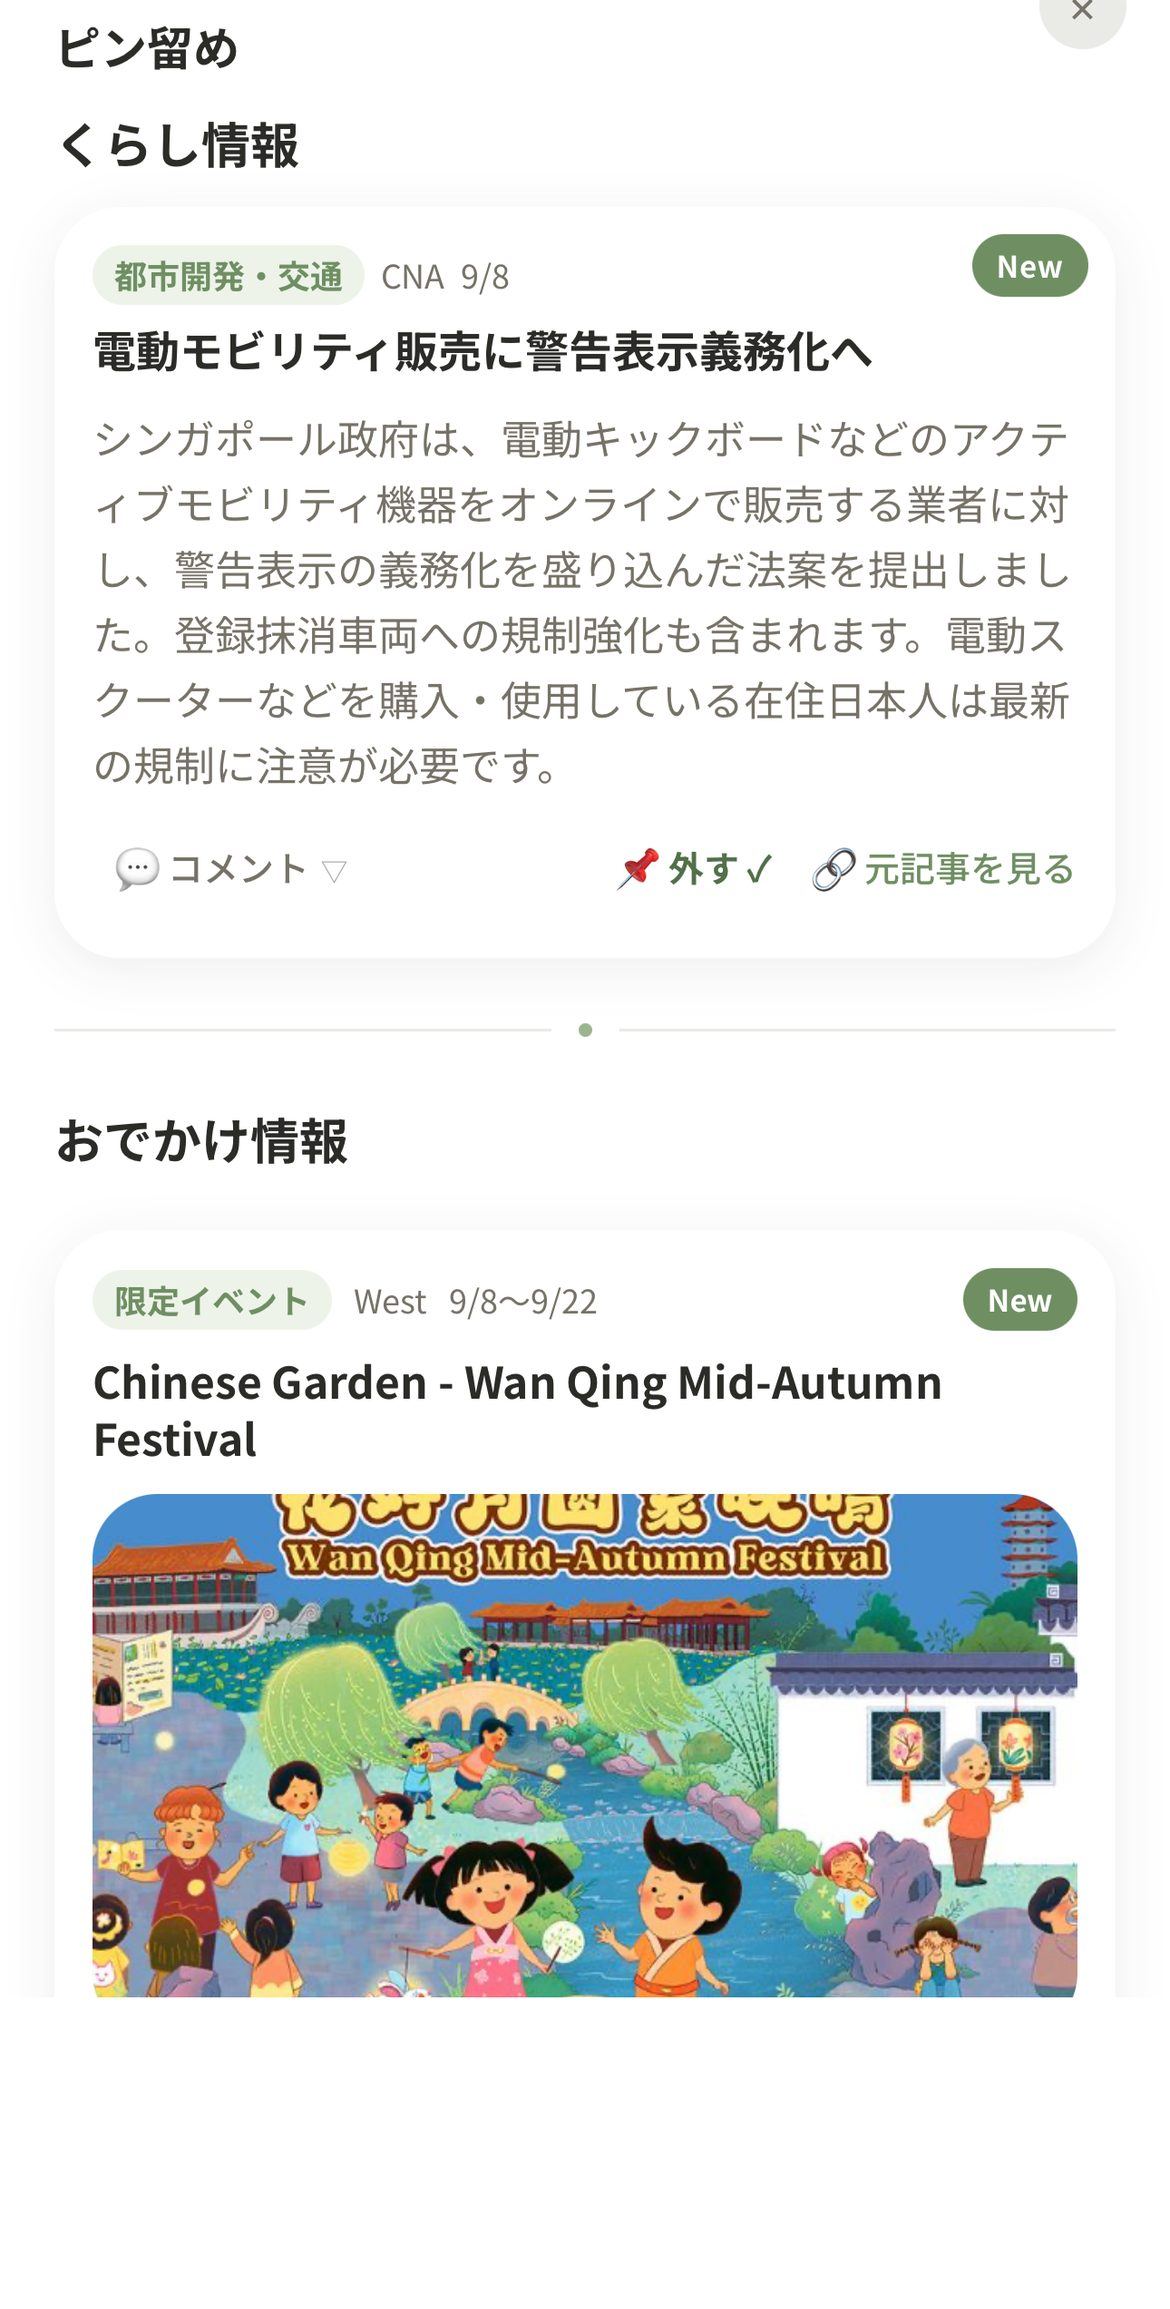
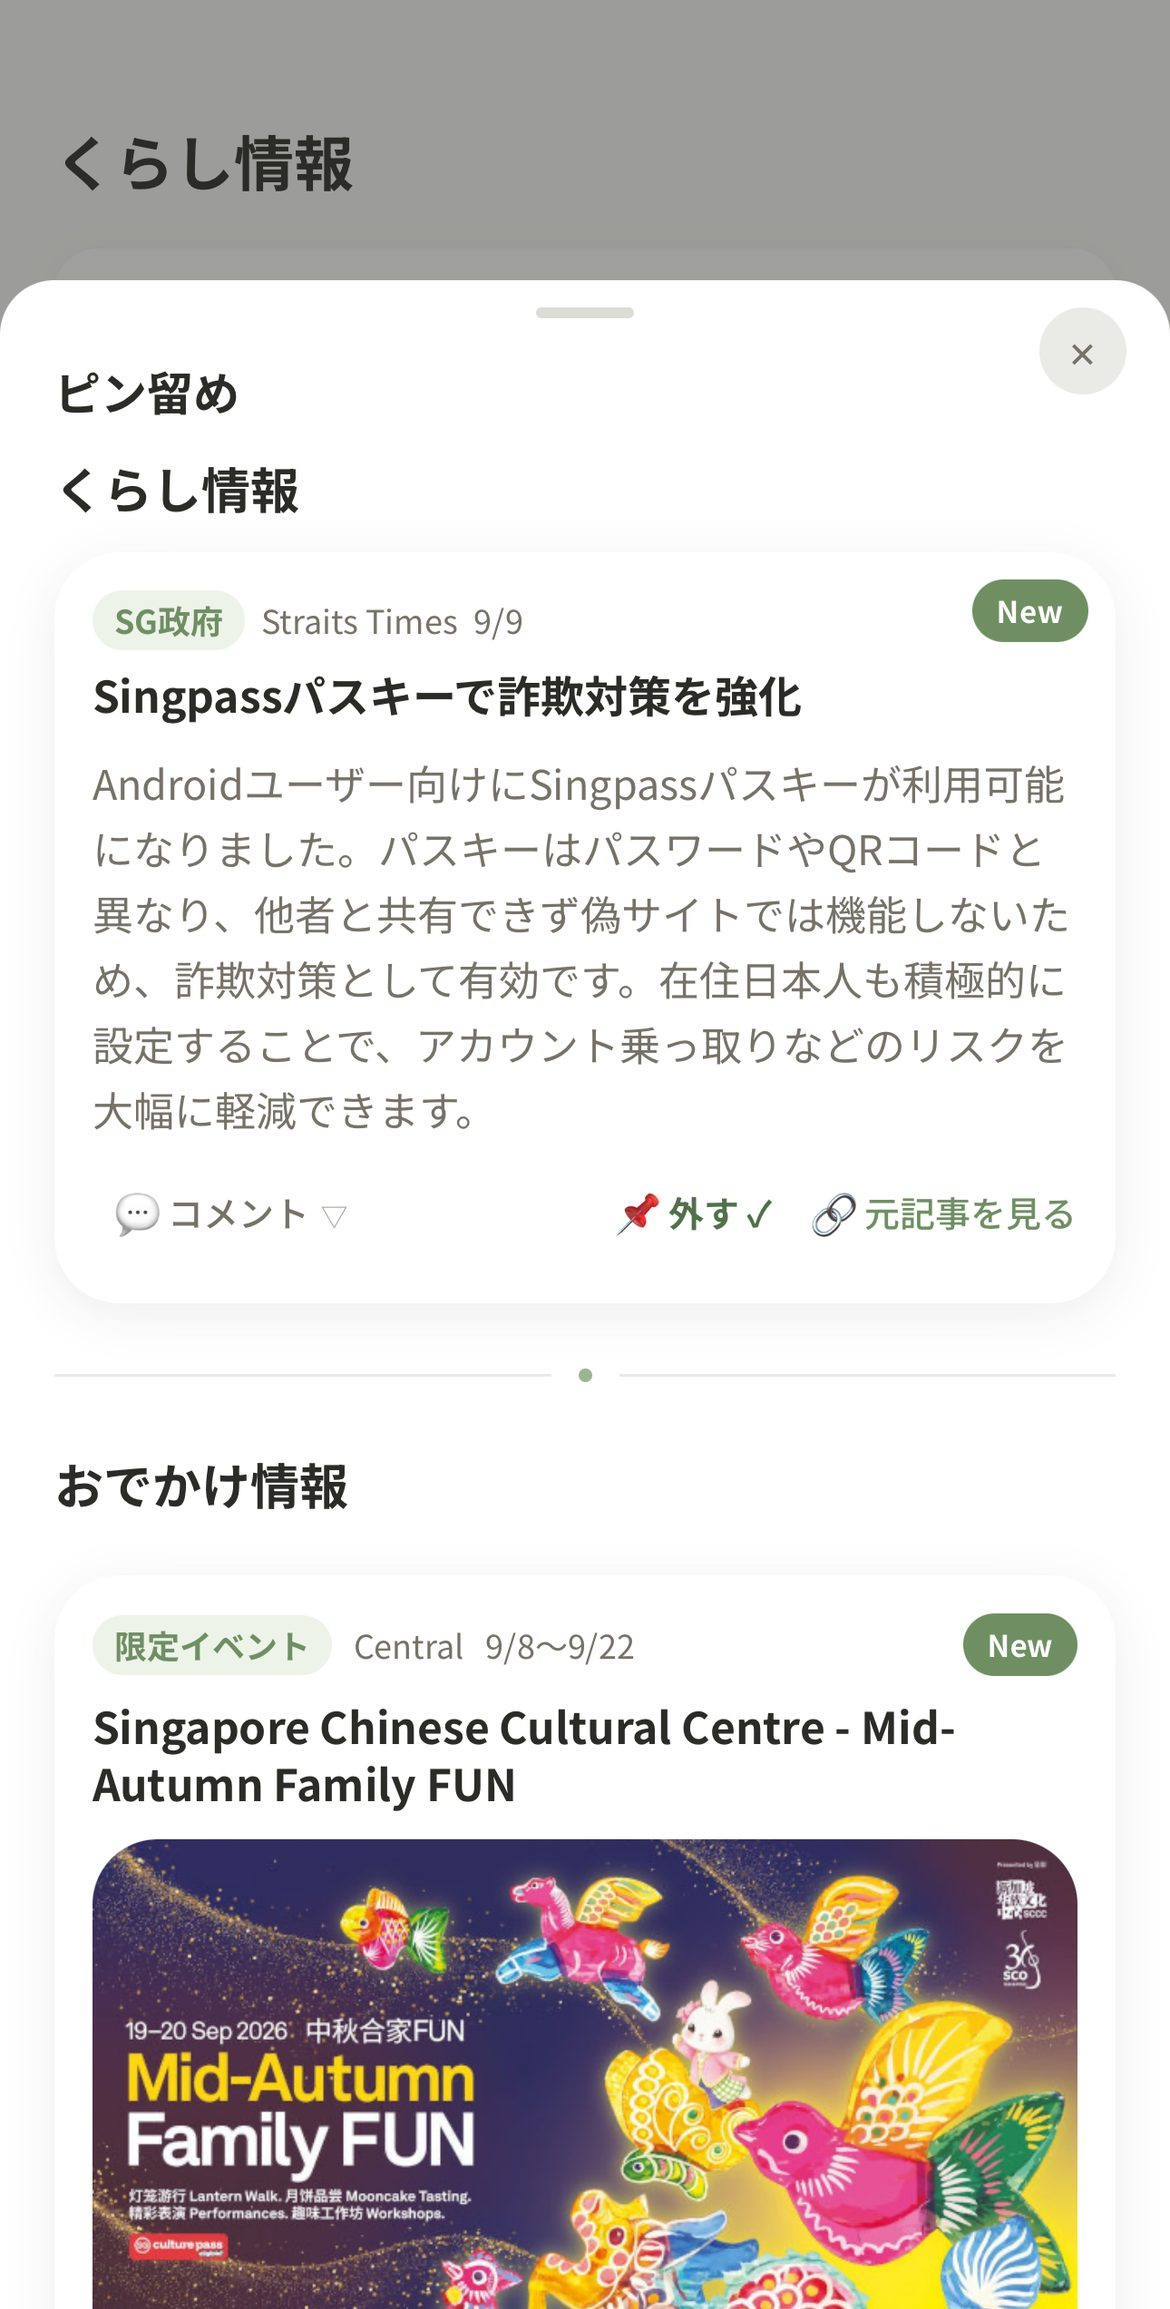
about.html: screen-pins.jpgをグレーアウト部分を残す新スクショへ再差し替え
ユーザー提供の新しいピン留めスクリーンショット（上部に薄暗い「くらし情報」
タイトルが写り込む構図）へ差し替え。ステータスバーのみ除去しグレーアウト
部分は指示通り残置。幅1170px・高さ2309pxに統一し既存3枚と揃えた。

Claude-Session: https://claude.ai/code/session_01GSgz9PjvrBMXpjy7BmpkC7

diff --git a/public/about.html b/public/about.html
@@ -401,7 +401,7 @@
       <div class="mockup-item">
         <div class="phone">
           <div class="phone-img-wrap">
-            <img src="/screenshots/screen-pins.jpg?v=5" alt="ピン留めで整理">
+            <img src="/screenshots/screen-pins.jpg?v=6" alt="ピン留めで整理">
           </div>
         </div>
         <div class="mockup-label">ピン留めで整理</div>

diff --git a/CLAUDE.md b/CLAUDE.md
@@ -16,7 +16,7 @@
 - SSL: Let's Encrypt (Cloudflare DNS)
 
 ## サブドメイン
-- **about.dosuru.app**: アプリ紹介LP（2026-07-04公開、2026-07-09ルートバグ修正、2026-09-09設計書188で現行アイコン・現行機能に合わせて最新化、同日中にモバイル表示不具合2件を追加修正、同日中に周辺静的ページの配色統一も実施、同日中にスマホモックアップのタイトル文字薄れ不具合も修正、同日中にモックアップ上端の余白も調整、同日中にモックアップ角丸と見出し3行化の微調整も実施、さらに同日中にモックアップ角丸を四辺一律に再修正、さらに同日中に文言修正とダークモード機能カード削除も実施、さらに同日中に「こんな方におすすめ」セクションの文言も価値訴求型に修正、さらに同日中に同セクション3つ目の項目の文言を再修正、さらに同日中にモックアップCSSの構造を整理（padding-topの二重管理を解消）、さらに同日中にモックアップのタイトル文字が角丸カーブに一部かかる不具合を修正、さらに同日中にモックアップの角丸をさらに縮小し余白を微増、さらに同日中に実機と比べ過大になっていた余白を縮小し角丸をタイトにする方向へ再調整、さらに同日中に外側フレームの角丸を内側画像と調和させる方向へ再調整、さらに同日中にスクリーンショット4枚を再クロップしタイトル上に自然な余白を追加
+- **about.dosuru.app**: アプリ紹介LP（2026-07-04公開、2026-07-09ルートバグ修正、2026-09-09設計書188で現行アイコン・現行機能に合わせて最新化、同日中にモバイル表示不具合2件を追加修正、同日中に周辺静的ページの配色統一も実施、同日中にスマホモックアップのタイトル文字薄れ不具合も修正、同日中にモックアップ上端の余白も調整、同日中にモックアップ角丸と見出し3行化の微調整も実施、さらに同日中にモックアップ角丸を四辺一律に再修正、さらに同日中に文言修正とダークモード機能カード削除も実施、さらに同日中に「こんな方におすすめ」セクションの文言も価値訴求型に修正、さらに同日中に同セクション3つ目の項目の文言を再修正、さらに同日中にモックアップCSSの構造を整理（padding-topの二重管理を解消）、さらに同日中にモックアップのタイトル文字が角丸カーブに一部かかる不具合を修正、さらに同日中にモックアップの角丸をさらに縮小し余白を微増、さらに同日中に実機と比べ過大になっていた余白を縮小し角丸をタイトにする方向へ再調整、さらに同日中に外側フレームの角丸を内側画像と調和させる方向へ再調整、さらに同日中にスクリーンショット4枚を再クロップしタイトル上に自然な余白を追加、さらに同日中に`screen-pins.jpg`をグレーアウト部分を残す新スクリーンショットへ再差し替え
   - **モックアップのタイトル文字が角丸カーブに一部かかる不具合の修正（2026-09-09、plan.md追記なしの直接依頼）**: 上記の構造整理直後、ユーザーが実機で確認したところ「くらし情報」「おでかけ情報」「カレンダー」「ピン留め」いずれもタイトル先頭文字の左上が`.phone-img-wrap`の`border-radius:30px`カーブにわずかにかかって隠れる不具合が判明。原因は`.phone`側の左右padding(10px)が同カーブの半径に対して不足していたこと。`.phone`の`padding`を`10px`→`14px`に増加（`padding-top:26px`の上書きは無変更）、`.phone-img-wrap`の`border-radius`を`30px`→`26px`に縮小する組み合わせで解消（padding増加のみ〈16px試行〉では「ピン留め」の「ピ」の半濁点等が依然カーブに接触し不十分と判明したため両方を調整）。Sharpで実CSS数値を再現合成する検証手法（前回セッション確立）を用い、4枚全てでタイトル先頭文字が角丸カーブから完全にクリアになること、`.phone`外枠（border-radius:40px）との視覚バランスも不自然でないことを数値・目視の両面で確認済み
   - **モックアップの角丸をさらに縮小し余白を微増（2026-09-09、plan.md追記なしの直接依頼）**: 上記修正を実機確認したユーザーから「少しよくなったが、もう少し小さくして。白いスペースを少し入れてもいいかもしれません」とのフィードバックを受け再調整。`.phone-img-wrap`の`border-radius`を`26px`→`22px`にさらに縮小、`.phone`の`padding`を`14px`→`18px`に増加（`padding-top:26px`の上書きは無変更）。検証は前回のSharp合成目視に加え、タイトル文字の左上端の暗ピクセル座標をラスタースキャンで実測し、CSS候補値ごとに角丸円弧との幾何学的な安全マージン（px単位）を算出して比較する手法を新たに導入（padding15〜20px×radius16〜24pxの全組み合わせを一括評価）。`padding18px/radius22px`は4画面全てで安全マージン約1.68px以上を確保しつつ、角丸縮小・padding増加の両要求を満たすことを確認して採用（直前値`padding14px/radius26px`のマージンは約2.9pxだった）。副産物として`.phone`外枠`border-radius:40px`からpadding18pxを引いた値(22px)が内側`.phone-img-wrap`のradiusと一致し、視覚バランス上も自然な同心円状の比率になっている
   - **実機と比べ過大になっていた余白を縮小し角丸をタイトにする方向へ再調整（2026-09-09、builder→checker→closer、plan.md追記なしの直接依頼）**: 上記2件の対応（角丸カーブとの重なり回避のためpaddingを段階的に10px→14px→18pxへ増加）の結果、重なり自体は解消したものの、ユーザーが実際のアプリ本体（実機スクリーンショット）とabout.htmlのモックアップを並べて比較したところ、モックアップ側のタイトル左・上マージンが実機に比べて明らかに過大・不自然になっていることが判明（「角丸対策で余白を積み増しすぎて実機の見た目から離れた」状態）。「paddingを増やして重なりを回避する」アプローチ自体を見直し、`.phone`の`padding`を`18px`→`10px`、`padding-top`を`26px`→`14px`に縮小する一方、`.phone-img-wrap`の`border-radius`を`22px`→`16px`にさらに縮小することで、余白は実機に近い小ささへ戻しつつ角丸を小さく・タイトに保つことで重なりを回避する方針に転換した。検証は、(1) 4枚のスクリーンショット上のタイトル文字左上端の実ピクセル座標をSharpのラスタースキャンで実測（news:146,160 / home:207,163 / calendar:55,149 / pins:63,106、画像px座標系）、(2) ユーザー提供の実機スクリーンショット（`dosuru.app`くらし画面、1290×2796px）からタイトル左マージンの幅比率を算出（約5.6%）し、旧CSS値でのモックアップ上のマージン比率（約12.5%）が実機の2倍以上に肥大化していたことを定量的に確認、(3) padding候補(8〜18px)×radius候補(12〜22px)の全組み合わせについて角丸コーナー中心とタイトル文字左上端との幾何学的距離から安全マージンを算出し、`padding=10px/radius=16px`が4画面全てで角丸の影響領域外（完全に安全、最小マージンの`screen-pins`でもtx=10.77px・ty=18.12pxがradius=16pxを上回る）となることを確認して採用。Sharpによる新旧比較の合成レンダリング目視でも過剰だった余白の解消と角丸非重なりの両方を確認済み
@@ -37,6 +37,7 @@
   - App StoreのURL: `https://apps.apple.com/sg/app/sg%E5%9C%A8%E4%BD%8Fnavi/id6787159354`（現行スラッグ。2026-09-09確認: `curl`でリダイレクト先・ページタイトルとも「SG在住Navi」の正しいアプリページであることを実証済み）
   - 「5つの便利な機能」セクション（2026-09-09にダークモードカード削除に伴い「6つ」から改称）は現行機能と一致（設計書184で廃止済みの配色3択機能の説明は削除済み、ダークモード機能自体はアプリに存在するが2026-09-09にユーザー要望でLP上の紹介からは外した）。スクリーンショット4枚（`screen-calendar.jpg`/`screen-home.jpg`/`screen-news.jpg`/`screen-pins.jpg`）は2026-09-09時点の実機最新版に差し替え済み、全て1170×2309pxに統一（`screen-pins.jpg`は当初1170×1992pxで据え置かれていたが、同日中に「ピン留め」ボトムシートを画面いっぱいに表示した新スクリーンショットへ差し替え、白背景での高さ合わせにより1170×2309pxへ統一。下記「`screen-pins.jpg`差し替え」参照）。about.html自体はダークモードCSS非対応（LP自体は常にライト表示）
   - **`screen-pins.jpg`差し替え（2026-09-09、plan.md追記なしの直接依頼）**: 旧`screen-pins.jpg`（1170×1992px）は「おでかけ情報画面＋薄暗いピン留めシートのオーバーレイ」という中途半端な構図で他3枚とアスペクト比も異なっていた。ユーザー提供の新スクリーンショット（ピン留めボトムシートを画面いっぱいに表示したもの、元1290×2796px）を、「ピン留め」タイトル上端でクロップ（薄暗い背景・ステータスバー除去）→幅1170pxにリサイズ→白背景キャンバスで高さ2309pxに統一（画像アスペクト比が既存3枚より横長のまま`object-fit:cover`に渡すと左右がクロップされる不具合をSharpでのシミュレーションで検出したため、高さを揃えて回避）→JPEG品質82（264KB）で書き出し。`about.html`の該当`<img>`のキャッシュバスティングクエリを`?v=3`→`?v=4`に更新
+  - **`screen-pins.jpg`再差し替え（グレーアウト部分を残す新スクショへ、2026-09-09、builder→checker→closer、plan.md追記なしの直接依頼）**: ユーザーから「ピン留め」機能紹介用のより良い新しいスクリーンショット（元1290×2796px、上部に薄暗い「くらし情報」タイトルが写り込む構図）が提供され、「このスクショを使って、モーダルの裏でグレーアウトしている部分もそのまま残して」との明確な指示のもと再差し替え。Sharpのラスタースキャンでステータスバーの範囲（y=64〜108で暗ピクセル検出）を実測し、y=110からクロップすることでステータスバーのみを除去しグレーアウトした「くらし情報」タイトル部分（y≈259〜320）はそのまま残置。幅1170pxにリサイズ後、高さが目標2309pxより127px大きかったため下部（ボトムシート内の次カード画像が部分的に見切れている箇所）を適度にクロップして統一（白背景の追加は不要だった）。JPEG品質82で書き出し（252,637バイト、既存3枚と同水準）。新画像はアスペクト比0.506713が`.phone-img-wrap`の`aspect-ratio:1170/2309`と完全一致するため`object-fit:cover`によるクロップは理論上発生しない。`about.html`の該当`<img>`キャッシュバスティングクエリを`?v=5`→`?v=6`に更新。CSS（`.phone`/`.phone-img-wrap`）・他3枚のスクリーンショットは無変更
   - **モバイル表示の不具合修正（2026-09-09）**: (1) `.hero h1`見出しが固定`<br>`構造のためモバイル幅で単語途中改行される不具合を、`<em>日本語で</em>`と`まるごとチェック。`の間にモバイル限定（`max-width:480px`）の`<br class="mobile-break">`を追加して解消。(2) `screen-pins.jpg`（1170×1992px、他3枚は1170×2309px）だけスマホモックアップの高さが揃わない不具合を、`.phone-img-wrap`に`aspect-ratio:1170/2309`、`.phone img`に`object-fit:cover;object-position:top`を追加する形で解消（画像ファイル自体は無編集、CSS側の根本対応のため今後スクリーンショットを更新してもアスペクト比違いで再発しない）
   - **プライバシーポリシー・お問い合わせページ（`public/privacy.html`/`public/contact.html`、Express `GET /privacy`・`GET /contact`）の配色統一（2026-09-09）**: `about.dosuru.app`のフッターからリンクされるこの2ページが柳グリーン化(設計書186)から取り残され旧キャラメル(オレンジ)配色のままだった不具合を修正。原因は両ページが共有する`public/css/about-shared.css`の`:root`にオレンジ系の`--caramel`/`--caramel-dark`/`--caramel-pale`（`about.html`は独自`<style>`内で柳グリーンに再定義してオーバーライド済みだったが、この2ページには同様のオーバーライドがなかった）。`about-shared.css`側の3変数を`about.html`と同じ柳グリーン値に修正し解消。アイコン（`icon-128.png`/`favicon.png`）は既に最新デザインを参照済みのため無変更。`about.html`からリンクされる静的ページはこの2つのみ（利用規約等は存在しない）
 
